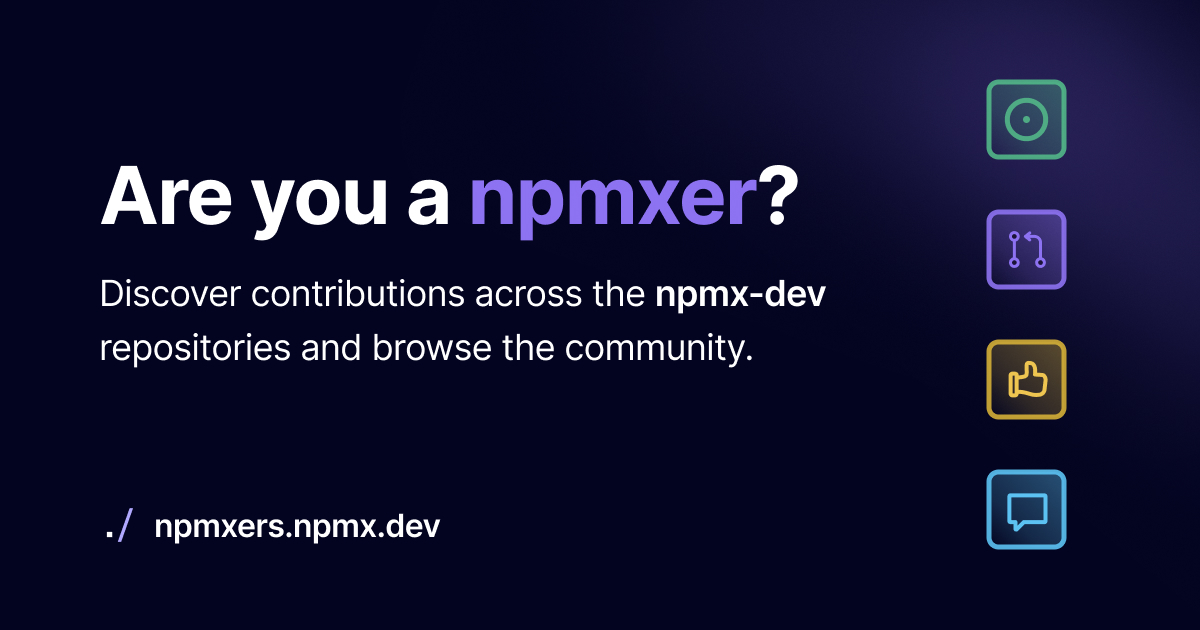
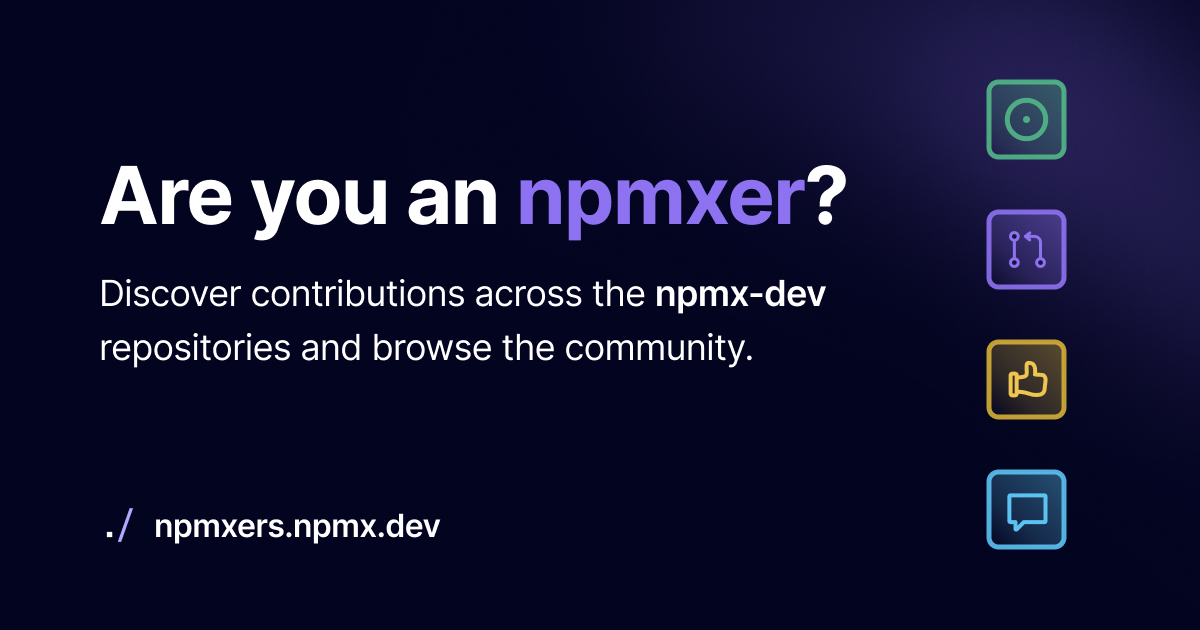
fix: grammatical mistake

Changed region(s): [[0.37, 0.2413, 0.7092, 0.3921]]

diff --git a/app/components/home/HomeHero.vue b/app/components/home/HomeHero.vue
@@ -11,7 +11,7 @@ const unlockList = [
     class="text-white w-full min-h-[calc(100dvh-80px)] flex flex-col justify-center py-8 md:py-0"
   >
     <h1 class="text-4xl lg:text-6xl font-bold mb-6 text-center md:text-left">
-      Are you a <span class="text-indigo-400">npmxer</span>?
+      Are you an <span class="text-indigo-400">npmxer</span>?
     </h1>
     <div
       class="flex flex-col gap-y-10 md:flex-row md:justify-between items-center md:items-start gap-x-12 lg:gap-x-30"
@@ -29,7 +29,7 @@ const unlockList = [
         </p>
         <div>
           <div class="mb-2">
-            Become a
+            Become an
             <UBadge
               size="xl"
               color="primary"